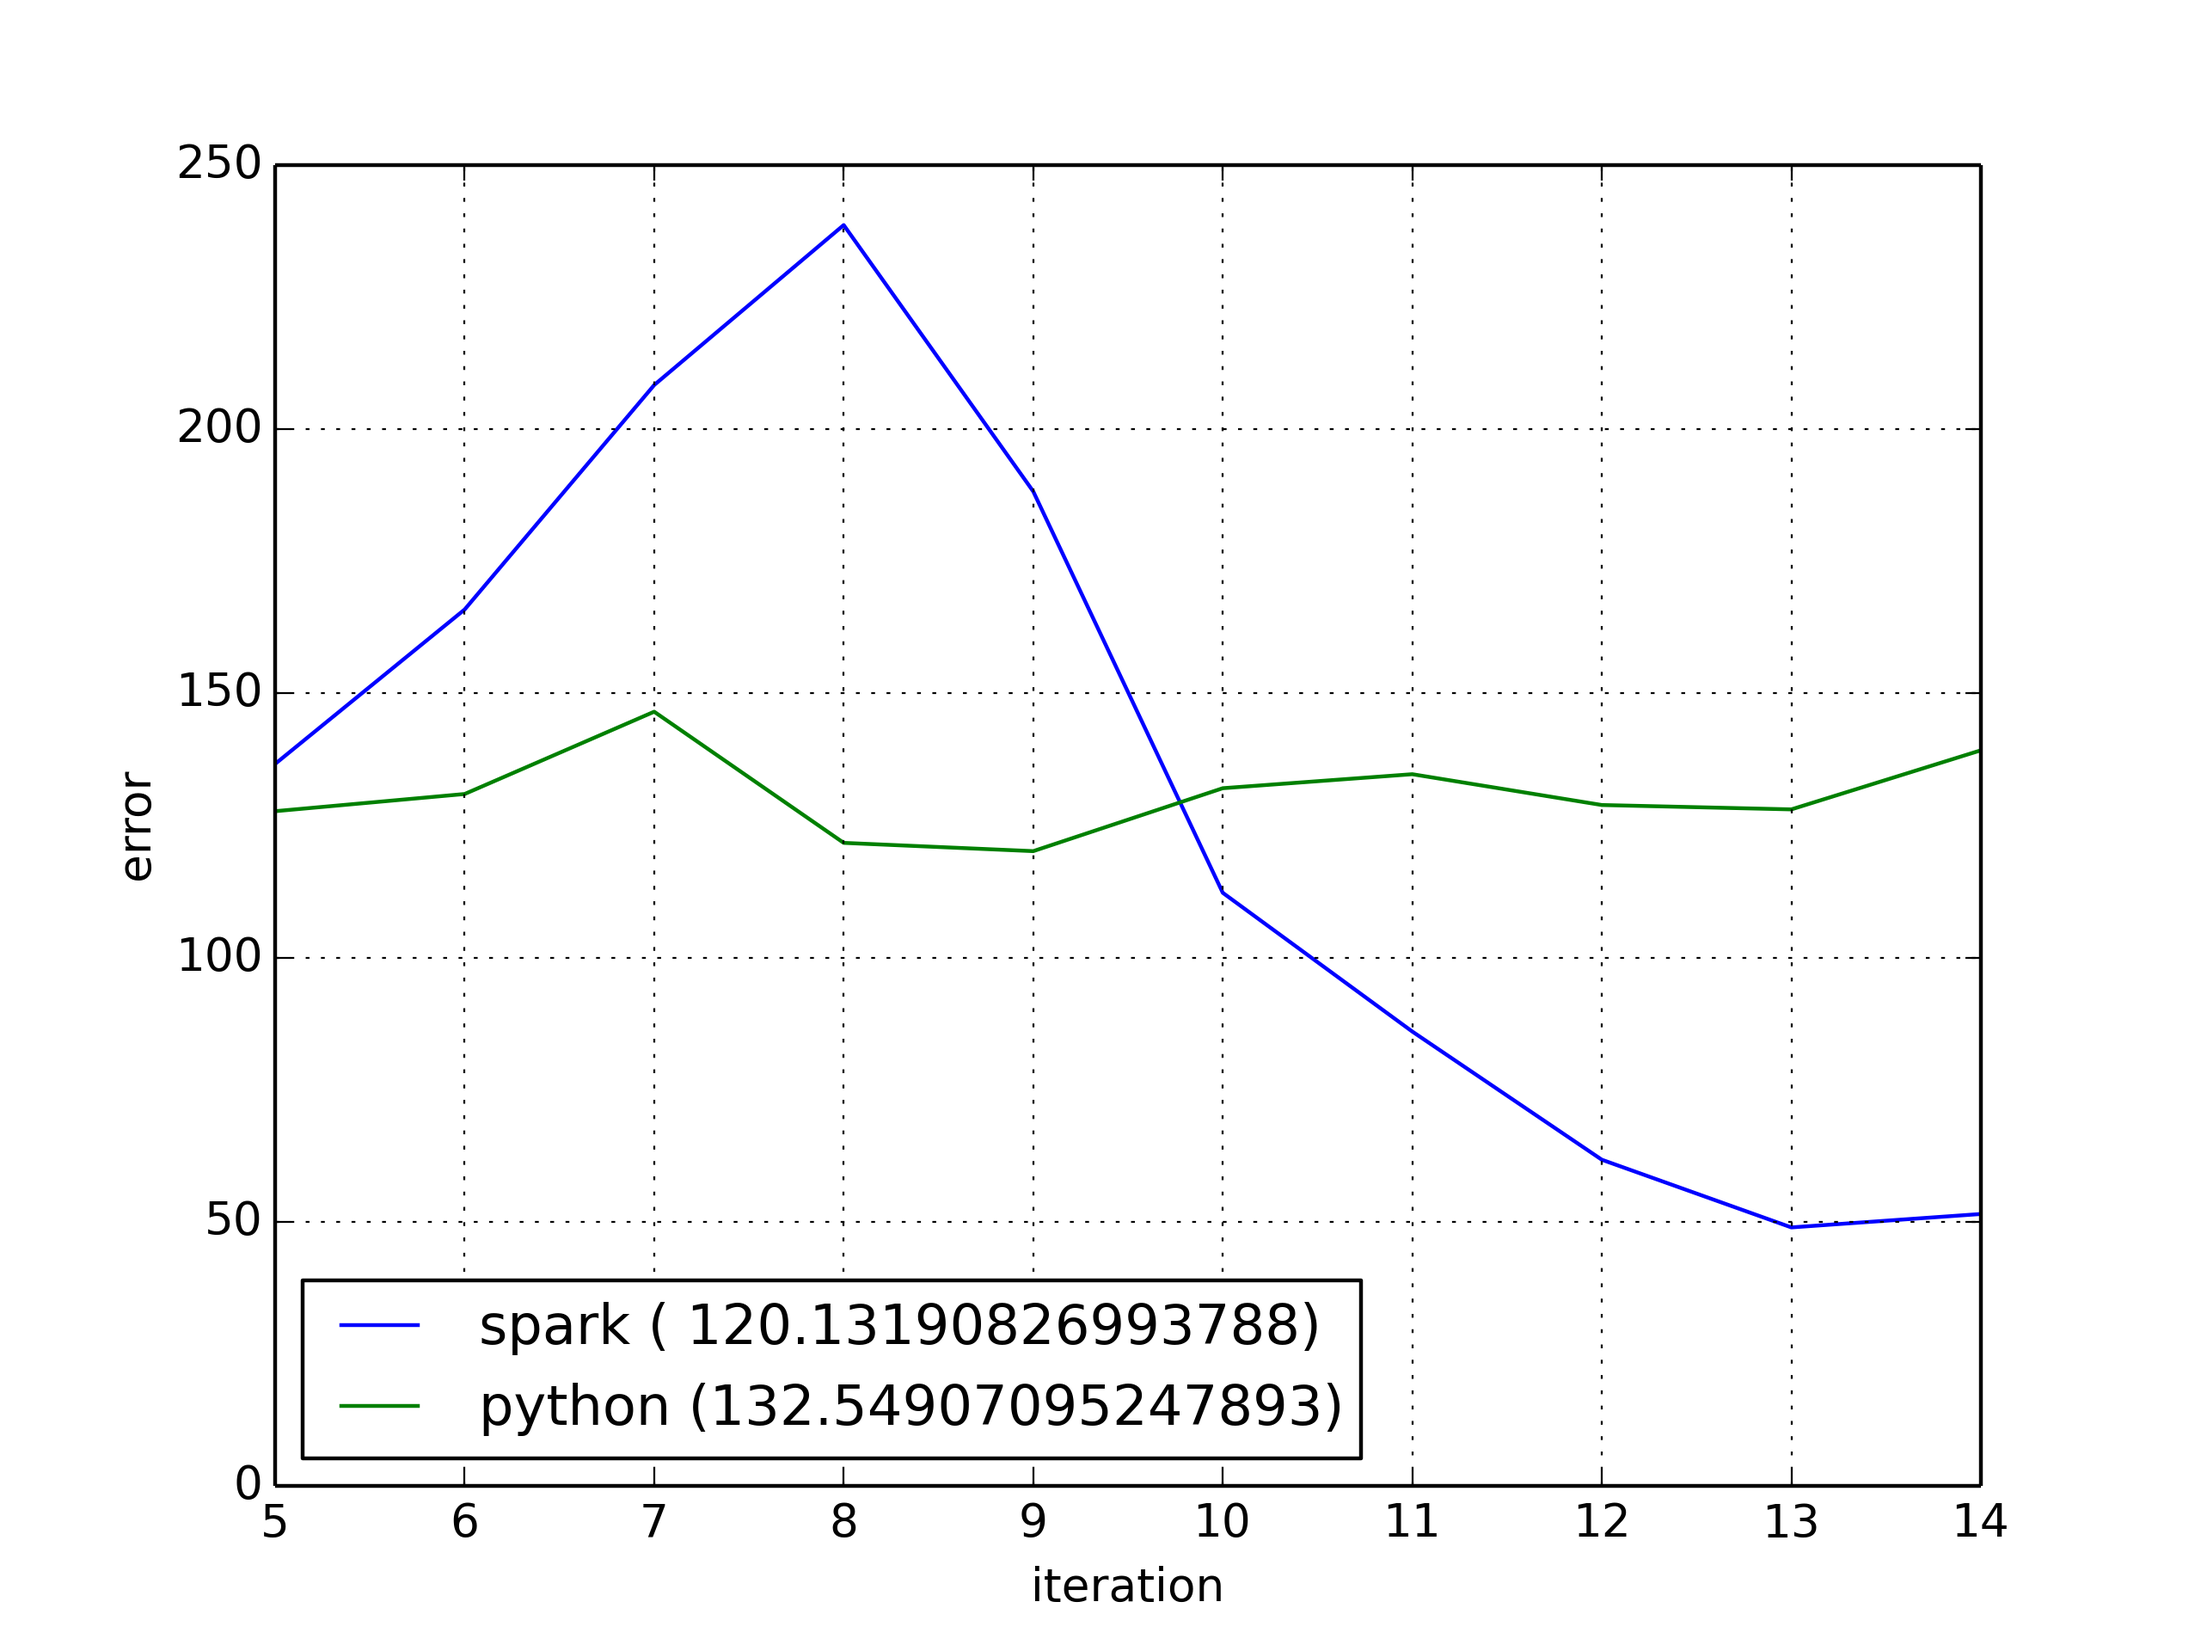
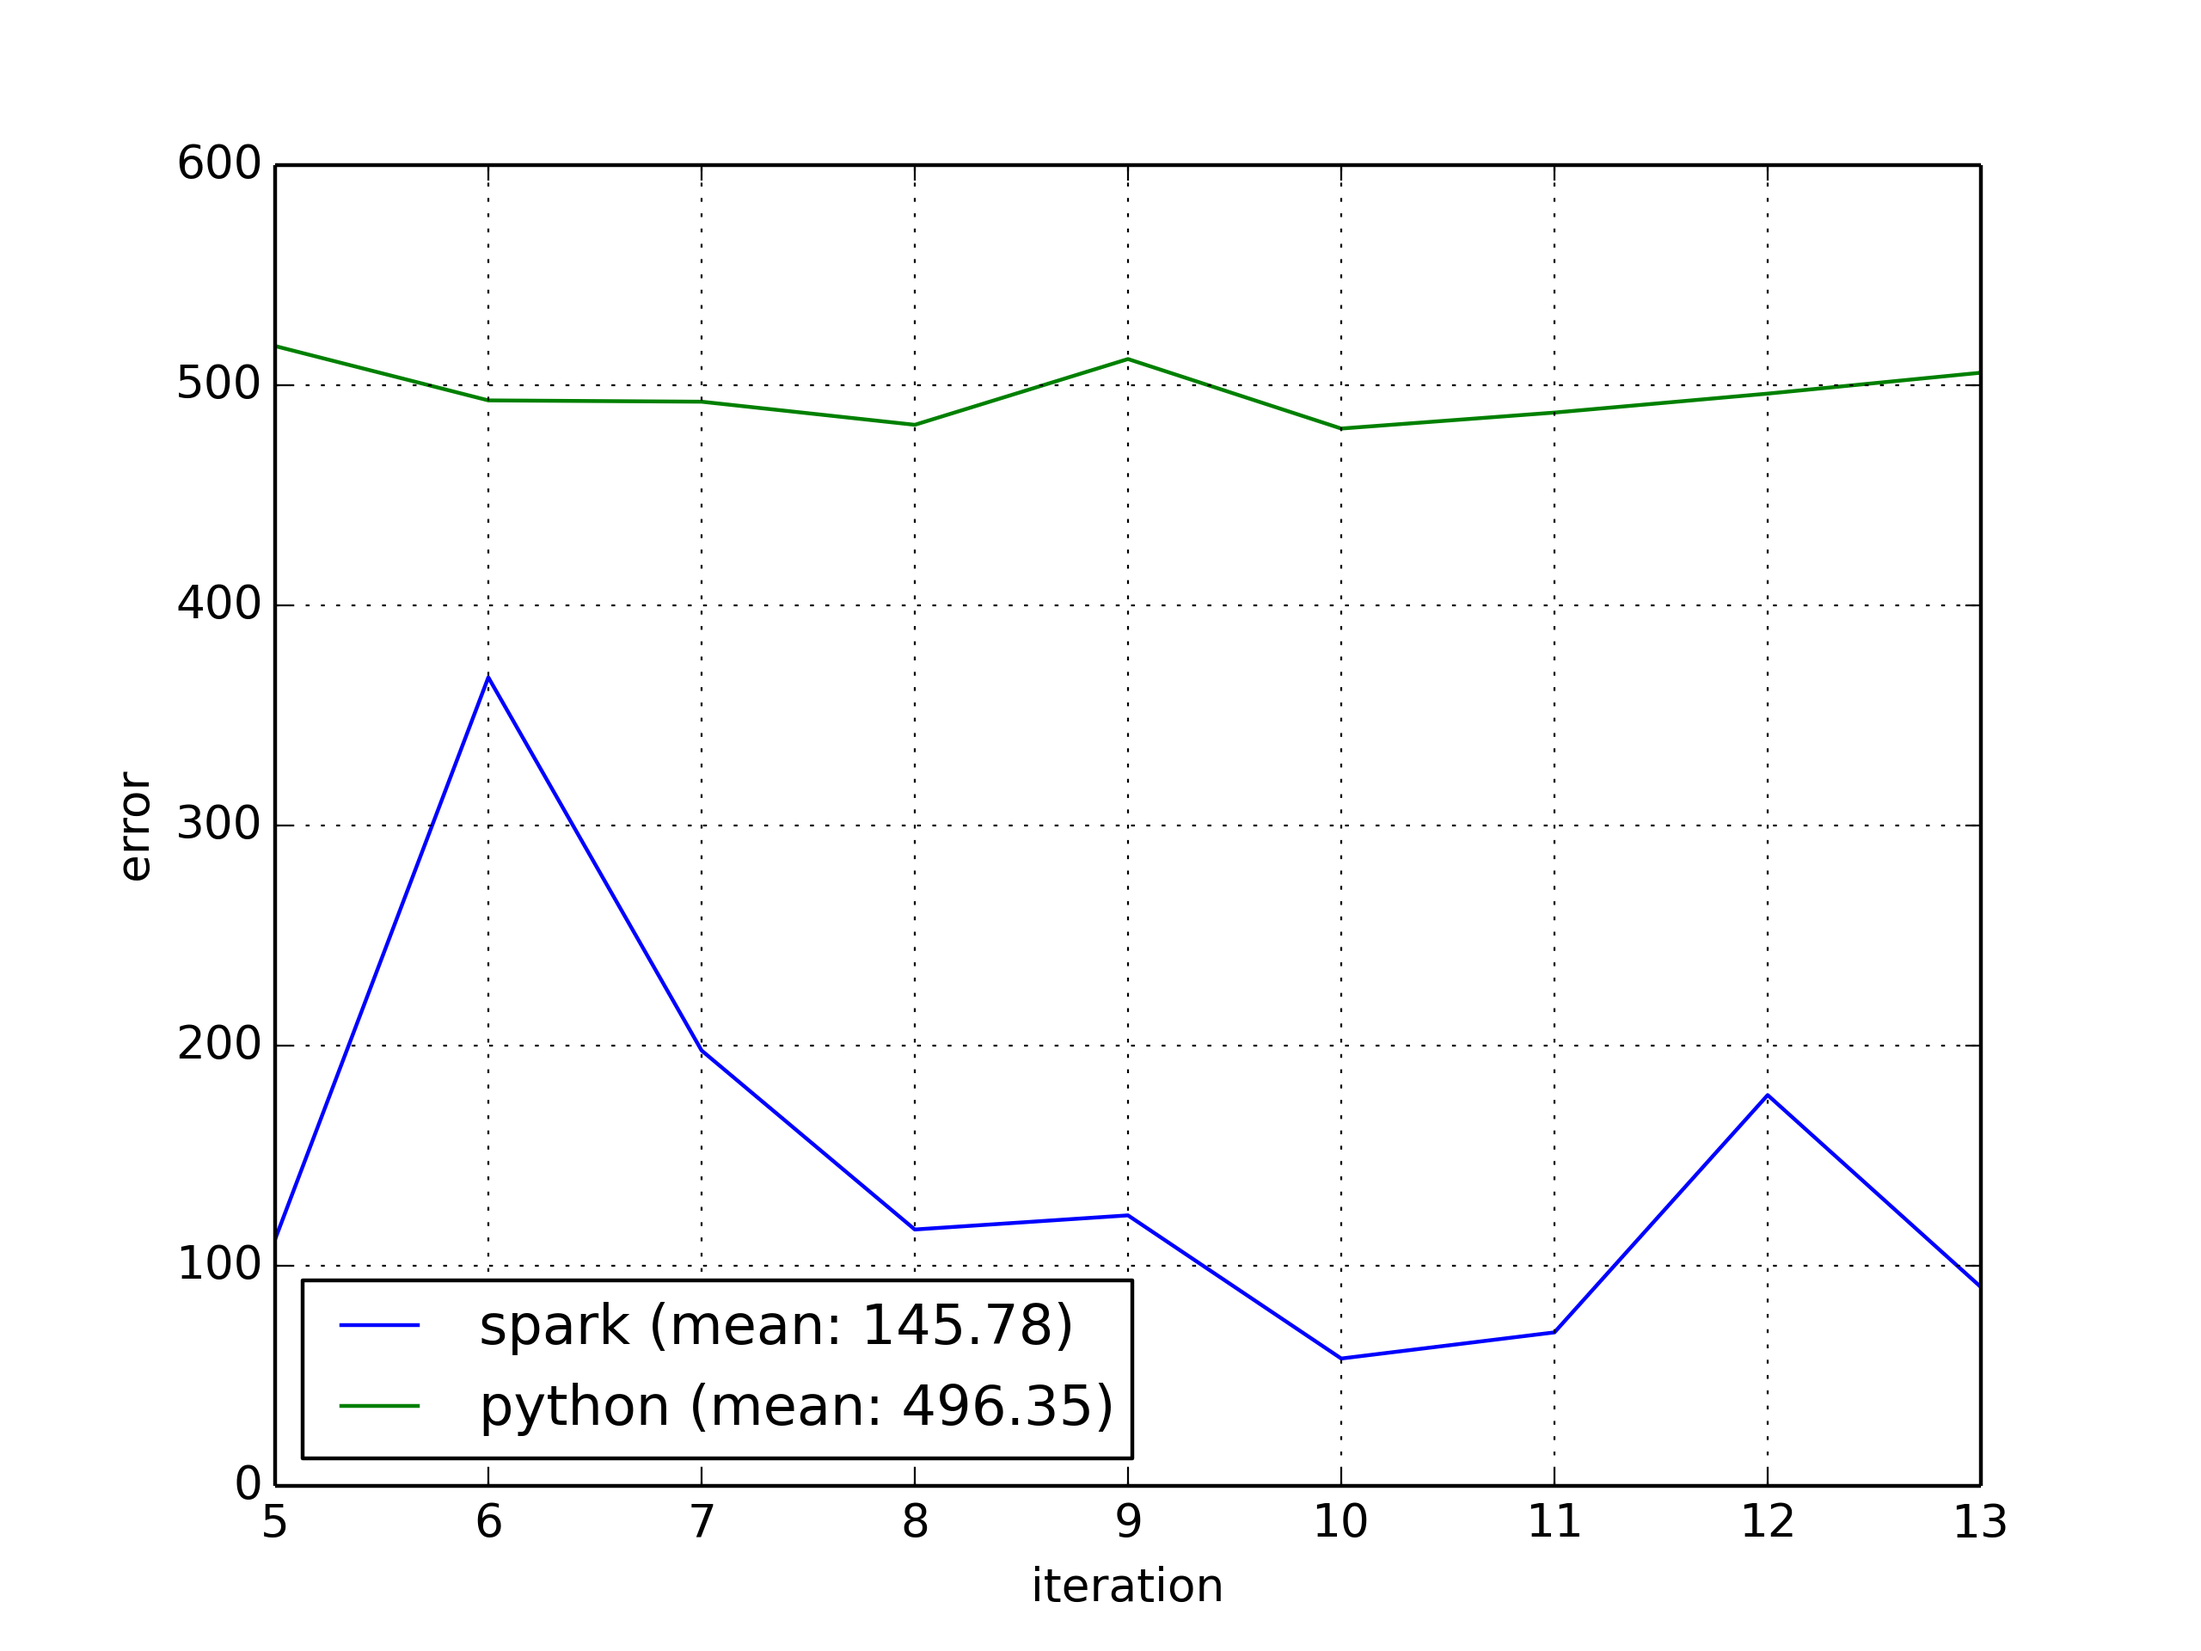
comments

diff --git a/random-projection/error_distances_python.py b/random-projection/error_distances_python.py
@@ -1,3 +1,9 @@
+'''
+Author: Sebastian Alfers
+This file is part of my thesis 'Evaluation and implementation of cluster-based dimensionality reduction'
+License: https://github.com/sebastian-alfers/master-thesis/blob/master/LICENSE
+'''
+
 from scipy.sparse import csr_matrix
 import numpy as np
 from scipy.spatial.distance import pdist
@@ -7,9 +13,8 @@ import scikit_rp
 import matplotlib.pyplot as plt
 import csv
 import os.path
-
-
 from numpy.linalg import norm
+
 rows = []
 cols = []
 values = []
@@ -21,7 +26,6 @@ for x in rng:
         values.append(x)
 
 matrix = csr_matrix( (values,(rows,cols))).todense()
-
 orig_dimension = np.shape(matrix)[1]
 
 print("dataset rows: %s" % np.shape(matrix)[0])
@@ -40,9 +44,7 @@ def getPairwiseDist(matrix):
     return count, collections.OrderedDict(sorted(dist.items()))
 
 amount_orig, dist = getPairwiseDist(matrix)
-
 new_dimension = 5
-
 
 def evaluatePairwiseDistances(dataset, intrinsicDimension):
 
@@ -77,41 +79,41 @@ def evaluatePairwiseDistances(dataset, intrinsicDimension):
         sumReduced = sumReduced + reduced_dist_value
         sumError = sumError + error
 
-    #print amount_reduced
-
-    #print "sum of original distances: %s" % sumOrig
-    #print "sum of reduced distances: %s" % sumReduced
-    #print "sum of error distances: %s" % sumError
     return (sumOrig, sumReduced, sumError)
-    #print "first pairwise dist amount of results: %s" % np.shape(dist)[0]
-
-    #print dist
 
 avg_error = 0.0
 folds = range(0, 200)
 
 x = []
-y = []
+y_orig = []
+y_reduced = []
+y_error = []
 for dimension in np.arange(5, 16, 1):
     print "dimension %s" % dimension
     x.append(dimension)
     error_sum = []
+    orig_sum = []
+    reduced_sum = []
     for i in folds:
-        orig, reduce, error = evaluatePairwiseDistances(matrix, new_dimension)
+        orig, reduced, error = evaluatePairwiseDistances(matrix, new_dimension)
         error_sum.append(error)
+        orig_sum.append(orig)
+        reduced_sum.append(reduced)
         # print error_sum
-    y.append(np.mean(error_sum))
+    y_orig.append(np.mean(orig_sum))
+    y_reduced.append(np.mean(reduced_sum))
+    y_error.append(np.mean(error_sum))
 
 outputFolder = os.path.dirname(os.path.abspath(__file__))
 outputFolder = "%s/csv" % outputFolder
 
 with open("%s/result_python.csv" % outputFolder, "wb") as csvfile:
     writer = csv.writer(csvfile, delimiter=",", quotechar="|", quoting=csv.QUOTE_MINIMAL)
-    writer.writerow(["x", "y"])
-    for item in zip(x,y):
-        writer.writerow([item[0], item[1]])
+    writer.writerow(["x", "y_orig","y_reduced" ,"y_error"])
+    for item in zip(x,y_orig, y_reduced, y_reduced):
+        writer.writerow([item[0], item[1], item[2], item[3]])
 
-    writer.writerow(["mean", np.mean(y)])
+
 '''
 plt.xlabel("iteration")
 plt.ylabel("error")

diff --git a/random-projection/error_distances_compare.py b/random-projection/error_distances_compare.py
@@ -1,5 +1,7 @@
 '''
-this file reads output from spark and plots the results
+Author: Sebastian Alfers
+This file is part of my thesis 'Evaluation and implementation of cluster-based dimensionality reduction'
+License: https://github.com/sebastian-alfers/master-thesis/blob/master/LICENSE
 '''
 
 import matplotlib.pyplot as plt
@@ -22,19 +24,20 @@ def loadFromCSV(file):
         y = []
         for item in rows[1 : len-2]:
             x.append(item[0])
-            y.append(item[1])
+            y.append(float(item[3]))
 
-        mean = rows[len-1][1]
-        return (x,y,mean)
+        return (x,y,np.mean(y))
 
-x_spark,y_spark,mean_spark = loadFromCSV("%s/results_pairwise_spark.csv" % folder)
-x_py,y_py, mean_py = loadFromCSV("%s/result_python.csv" % folder)
-plt.xlabel("iteration")
-plt.ylabel("error")
-plt.grid()
+for i in range(0,3):
+    plt.figure(i)
+    x_spark,y_spark,mean_spark = loadFromCSV("%s/results_pairwise_spark.csv" % folder)
+    x_py,y_py, mean_py = loadFromCSV("%s/result_python.csv" % folder)
+    plt.xlabel("iteration")
+    plt.ylabel("error")
+    plt.grid()
 
-plt.plot(x_spark, y_spark, label="spark (%s)" % mean_spark)
-plt.plot(x_py, y_py, label="python (%s)" % mean_py)
+    plt.plot(x_spark, y_spark, label="spark (mean: %.2f)" % mean_spark)
+    plt.plot(x_py, y_py, label="python (mean: %.2f)" % mean_py)
 
-plt.legend(loc="best")
-plt.savefig("output/pairwise/final_compare_python_spark.png", dpi=320)
+    plt.legend(loc="best")
+    plt.savefig("output/pairwise/final_compare_python_spark_%s.png" % i, dpi=320)

diff --git a/random-projection/scikit_rp.py b/random-projection/scikit_rp.py
@@ -1,10 +1,7 @@
 '''
 Author: Sebastian Alfers
-This file is part of the master thesis about Dimensionality Reduction at the HTW-Berlin
-
-see more:
-https://github.com/sebastian-alfers/master-thesis
-http://www.sebalf.de
+This file is part of my thesis 'Evaluation and implementation of cluster-based dimensionality reduction'
+License: https://github.com/sebastian-alfers/master-thesis/blob/master/LICENSE
 '''
 
 from sklearn.random_projection import SparseRandomProjection, GaussianRandomProjection

diff --git a/random-projection/quality-roc-auc.py b/random-projection/quality-roc-auc.py
@@ -1,10 +1,7 @@
 '''
 Author: Sebastian Alfers
-This file is part of the master thesis about Dimensionality Reduction at the HTW-Berlin
-
-see more:
-https://github.com/sebastian-alfers/master-thesis
-http://www.sebalf.de
+This file is part of my thesis 'Evaluation and implementation of cluster-based dimensionality reduction'
+License: https://github.com/sebastian-alfers/master-thesis/blob/master/LICENSE
 '''
 
 import numpy as np

diff --git a/random-projection/build_rp_matrix.py b/random-projection/build_rp_matrix.py
@@ -1,5 +1,14 @@
+'''
+Author: Sebastian Alfers
+This file is part of my thesis 'Evaluation and implementation of cluster-based dimensionality reduction'
+License: https://github.com/sebastian-alfers/master-thesis/blob/master/LICENSE
+'''
+
 import numpy as np
 
+'''
+construct a random matrix base on given distribution 'draw'
+'''
 def buildMatrix(rows, columns, draw):
     rm = np.empty((rows, columns))
 

diff --git a/random-projection/prove.py b/random-projection/prove.py
@@ -1,9 +1,12 @@
-import distributions
-
 '''
 Author: Sebastian Alfers
-This file is part of the master thesis about Dimensionality Reduction
+This file is part of my thesis 'Evaluation and implementation of cluster-based dimensionality reduction'
+License: https://github.com/sebastian-alfers/master-thesis/blob/master/LICENSE
 '''
+
+import distributions
+
+
 
 
 

diff --git a/random-projection/distributions.py b/random-projection/distributions.py
@@ -1,3 +1,9 @@
+'''
+Author: Sebastian Alfers
+This file is part of my thesis 'Evaluation and implementation of cluster-based dimensionality reduction'
+License: https://github.com/sebastian-alfers/master-thesis/blob/master/LICENSE
+'''
+
 import random
 import numpy as np
 from sklearn.random_projection import SparseRandomProjection, GaussianRandomProjection

diff --git a/random-projection/quality_durations.py b/random-projection/quality_durations.py
@@ -1,3 +1,9 @@
+'''
+Author: Sebastian Alfers
+This file is part of my thesis 'Evaluation and implementation of cluster-based dimensionality reduction'
+License: https://github.com/sebastian-alfers/master-thesis/blob/master/LICENSE
+'''
+
 import numpy as np
 from scipy.sparse import csr_matrix, csc_matrix
 import distributions

diff --git a/random-projection/quality-distances.py b/random-projection/quality-distances.py
@@ -1,3 +1,9 @@
+'''
+Author: Sebastian Alfers
+This file is part of my thesis 'Evaluation and implementation of cluster-based dimensionality reduction'
+License: https://github.com/sebastian-alfers/master-thesis/blob/master/LICENSE
+'''
+
 import numpy as np
 import data_factory as df
 import dimensionality_reduction as dr

diff --git a/random-projection/compare_distributions.py b/random-projection/compare_distributions.py
@@ -1,3 +1,9 @@
+'''
+Author: Sebastian Alfers
+This file is part of my thesis 'Evaluation and implementation of cluster-based dimensionality reduction'
+License: https://github.com/sebastian-alfers/master-thesis/blob/master/LICENSE
+'''
+
 import matplotlib.pyplot as plt
 import os.path
 import distributions
